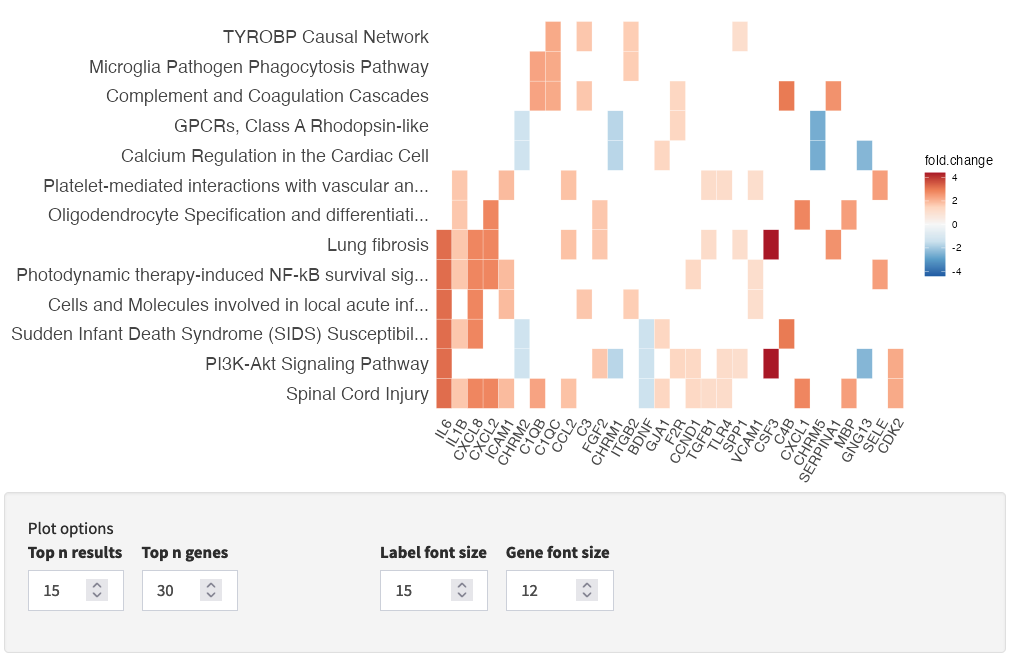
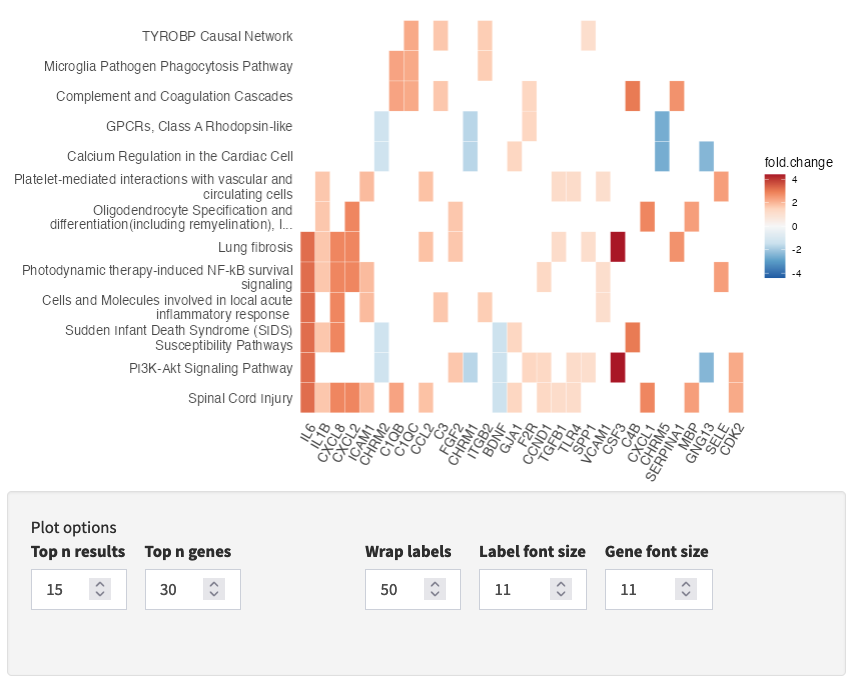
readme plot options done

diff --git a/README.md b/README.md
@@ -199,7 +199,7 @@ failed identifier mapping.
 are resolvable (e.g., fixing identifiers in your dataset CSV) and
 substantial (e.g., a lot of significant genes per the volcano plot).*
 
-<img src="shiny_run/assets/shiny_results_data_volcano.png" width="200" align="left"/>
+<img src="shiny_run/assets/shiny_results_data_volcano.png" width="400" align="left"/>
 
 **Volcano plot**
 
@@ -211,7 +211,7 @@ and fold-change cutoffs indicated during the run. Plot options includes:
  * `Label font size` - Font size for gene labels
  * `Legend position` - Placement of the legend
 
-<img src="shiny_run/assets/shiny_results_data_bar.png" width="200" align="left"/>
+<img src="shiny_run/assets/shiny_results_data_bar.png" width="400" align="left"/>
 
 **Bar plot (Data)**
 
@@ -240,6 +240,87 @@ more, and can also be downloaded.
 *Pro-tip: Navigate between GSEA and ORA methods (side panel) while
 viewing the results for a particular database to explore hits in common
 (and unique) to the different methods.*
+
+<img src="shiny_run/assets/shiny_results_res_dot.png" width="400" align="left"/>
+
+**Dot plot **
+
+Using [enrichplot](https://bioconductor.org/packages/release/bioc/html/enrichplot.html),
+a dot plot of results highlight multiple statistics for the most enriched results. Plot options includes:
+ * `Top n results` - How many results to include in the plot
+ * `X-axis by` - Set the x-axis by Count (*number of dataset genes overlapping a given term*) or GeneRatio (*dataset genes overlapping a given term vs all possible terms*)
+ * `Size by` - Set the size of dots by Count, GeneRatio, or Percentage (*dataset genes overlapping a given term vs all genes in term*)
+ * `Wrap labels` - Wrap long labels to mulitple lines after a specified number of characters
+ * `Label font size` - Font size for all text
+ * `Color by` - Set the color of dots by pvalue, p.adjust, or qvalue (see [clusterProfiler](https://bioconductor.org/packages/release/bioc/html/clusterProfiler.html) docs)
+ 
+<img src="shiny_run/assets/shiny_results_res_dot.png" width="400" align="left"/>
+
+**Bar plot (Results)**
+
+Using ggplot2::geom_bar,
+a bar plot of results highlight various statistics for the most enriched results. Plot options includes:
+ * `Top n results` - How many results to include in the plot
+ * `X-axis by` - Set the x-axis by Fold change (*average fold change of overlapping genes*), Count (*number of dataset genes overlapping a given term*) or Percentage (*dataset genes overlapping a given term vs all genes in term*)
+ * `Wrap labels` - Wrap long labels to mulitple lines after a specified number of characters
+ * `Label font size` - Font size for all text
+
+<img src="shiny_run/assets/shiny_results_res_heatmap.png" width="400" align="left"/>
+
+**Heatmap**
+
+Using ggplot2::geom_tile,
+a heatmap of results highlights overlapping genes among the most enriched results. 
+Plot options includes:
+ * `Top n results` - How many results to include in the heatmap analysis (will 
+ exclude results without shared genes)
+  * `Top n genes` - How many genes to include in the heatmap, ordered by number
+  of shared results and secondarily by fold.change.
+ * `Wrap labels` - Wrap long labels to mulitple lines after a specified number of characters
+ * `Label font size` - Font size for result labels (y-axis)
+ * `Gene font size` - Font size for gene labels (x-axis)
+
+<img src="shiny_run/assets/shiny_results_res_emap.png" width="400" align="left"/>
+
+**Enrichment map (emap)**
+
+Using [enrichplot](https://bioconductor.org/packages/release/bioc/html/enrichplot.html),
+an enrichment map connects results with overlapping genes. 
+Plot options includes:
+ * `Top n results` - How many results to include in the heatmap analysis (will 
+ exclude results without shared genes)
+ * `Wrap labels` - Wrap long labels to mulitple lines after a specified number of characters
+ * `Label font size` - Font size for node labels
+ * `Result node scale` - Relative scale factor for the size of nodes
+ * `Color by` - Set the color of dots by pvalue, p.adjust, or qvalue (see [clusterProfiler](https://bioconductor.org/packages/release/bioc/html/clusterProfiler.html) docs)
+ * `Layout` - Layout algorithm to apply to network. Layout names are rarely
+ descriptive, so just try them out!
+
+<img src="shiny_run/assets/shiny_results_res_cnet.png" width="400" align="left"/>
+
+**Concept network (cnet)**
+
+Using [enrichplot](https://bioconductor.org/packages/release/bioc/html/enrichplot.html),
+a concept network connects results via their overlapping genes. 
+Plot options includes:
+ * `Top n results` - How many results to include in the heatmap analysis (will 
+ exclude results without shared genes)
+ * `Label font size` - Font size for category labels
+ * `Gene font size` - Font size for gene nodes
+ * `Result node scale` - Relative scale factor for the size of result nodes
+ * `Gene node scale` - Relative scale factor for the size of gene nodes
+ * `Layout` - Layout algorithm to apply to network. Layout names are rarely
+ descriptive, so just try them out!
+ * `Circular` - Force a circular layout *(pretty useless)*
+ * `colorEdge` - Color the connections by result
+
+**PDF export**
+All plots offer `PDF options` to control the aspect ratio and initial dimensions
+(in pixels) of the saved PDF image. PDF images, of course, are vector graphics, 
+so you can zoom in to the final image as much as you want. These are 
+publication-ready images.
+
+<img src="shiny_run/assets/shiny_results_pdf.png" width="300"/>
 
 
 ## Publishing
